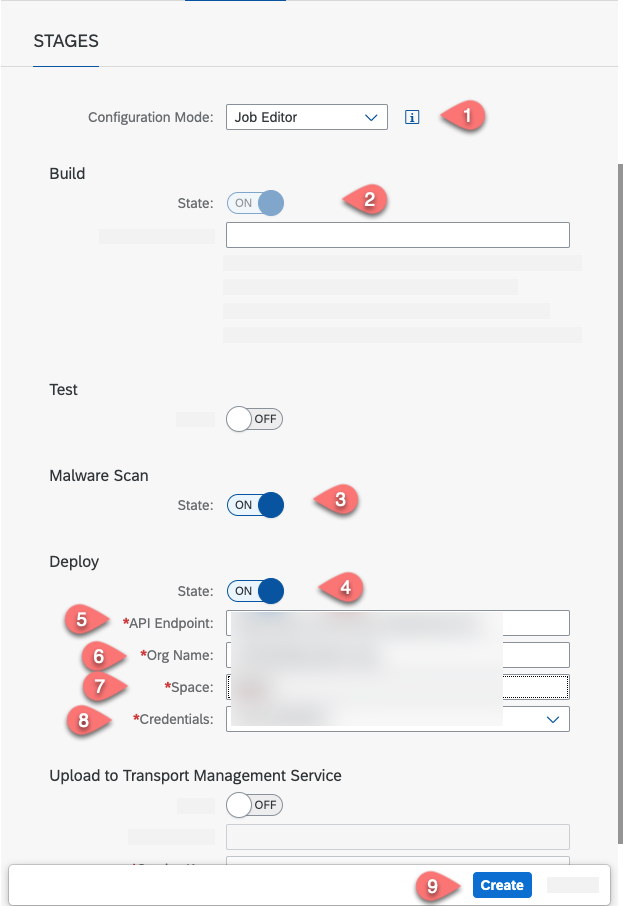
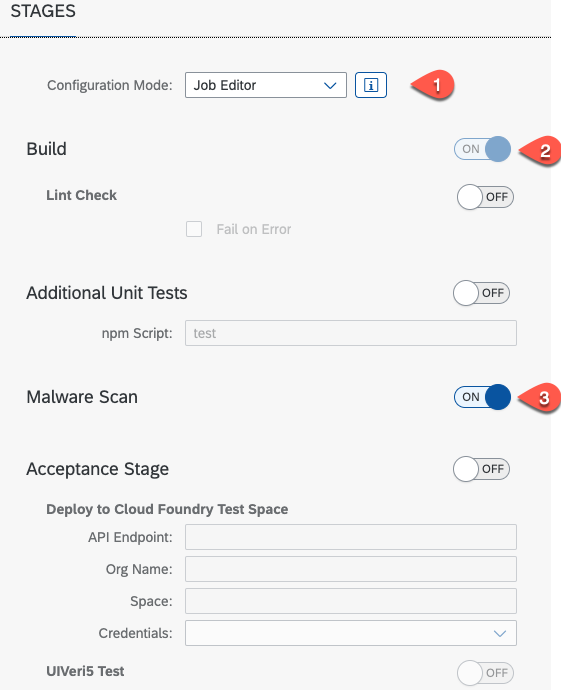
fix cicd

diff --git a/mission/ci-cd-service/README.md b/mission/ci-cd-service/README.md
@@ -153,13 +153,14 @@ We recommend using a technical user. However, you can use also use your cloud cr
    - In the **Configuration Mode** field choose **Job Editor**
    - Choose **ON** for the **State** field in the **Build** section
    - In the Malware Scan section choose **ON** for the **State** field. This will force a check for malicious software in your build package. 
-   - Also in the **Deploy** section set the **State** field to **ON**.
+   - Also in the **Release** section set the **Deploy to Cloud Foundry Production Space** field to **ON**.
    - In the **API Entpoint** and **Org Name** fields set the values from step 11.
    - In the **Space** field set the value form step 12.
    - In the **Credential** field select the credentials for your SAP BTP account that you have created in step 6.
-   - Choose **Create** to save your settings
+   - Choose **Save** 
 
    ![create CICD Job](./images/cicdjob2.png)
+   ![create CICD Job](./images/cicdjob2a.png)
     
 16. Open your GitHub repository and choose **Settings** --> **Webhooks** --> **Add webhook**.
 
